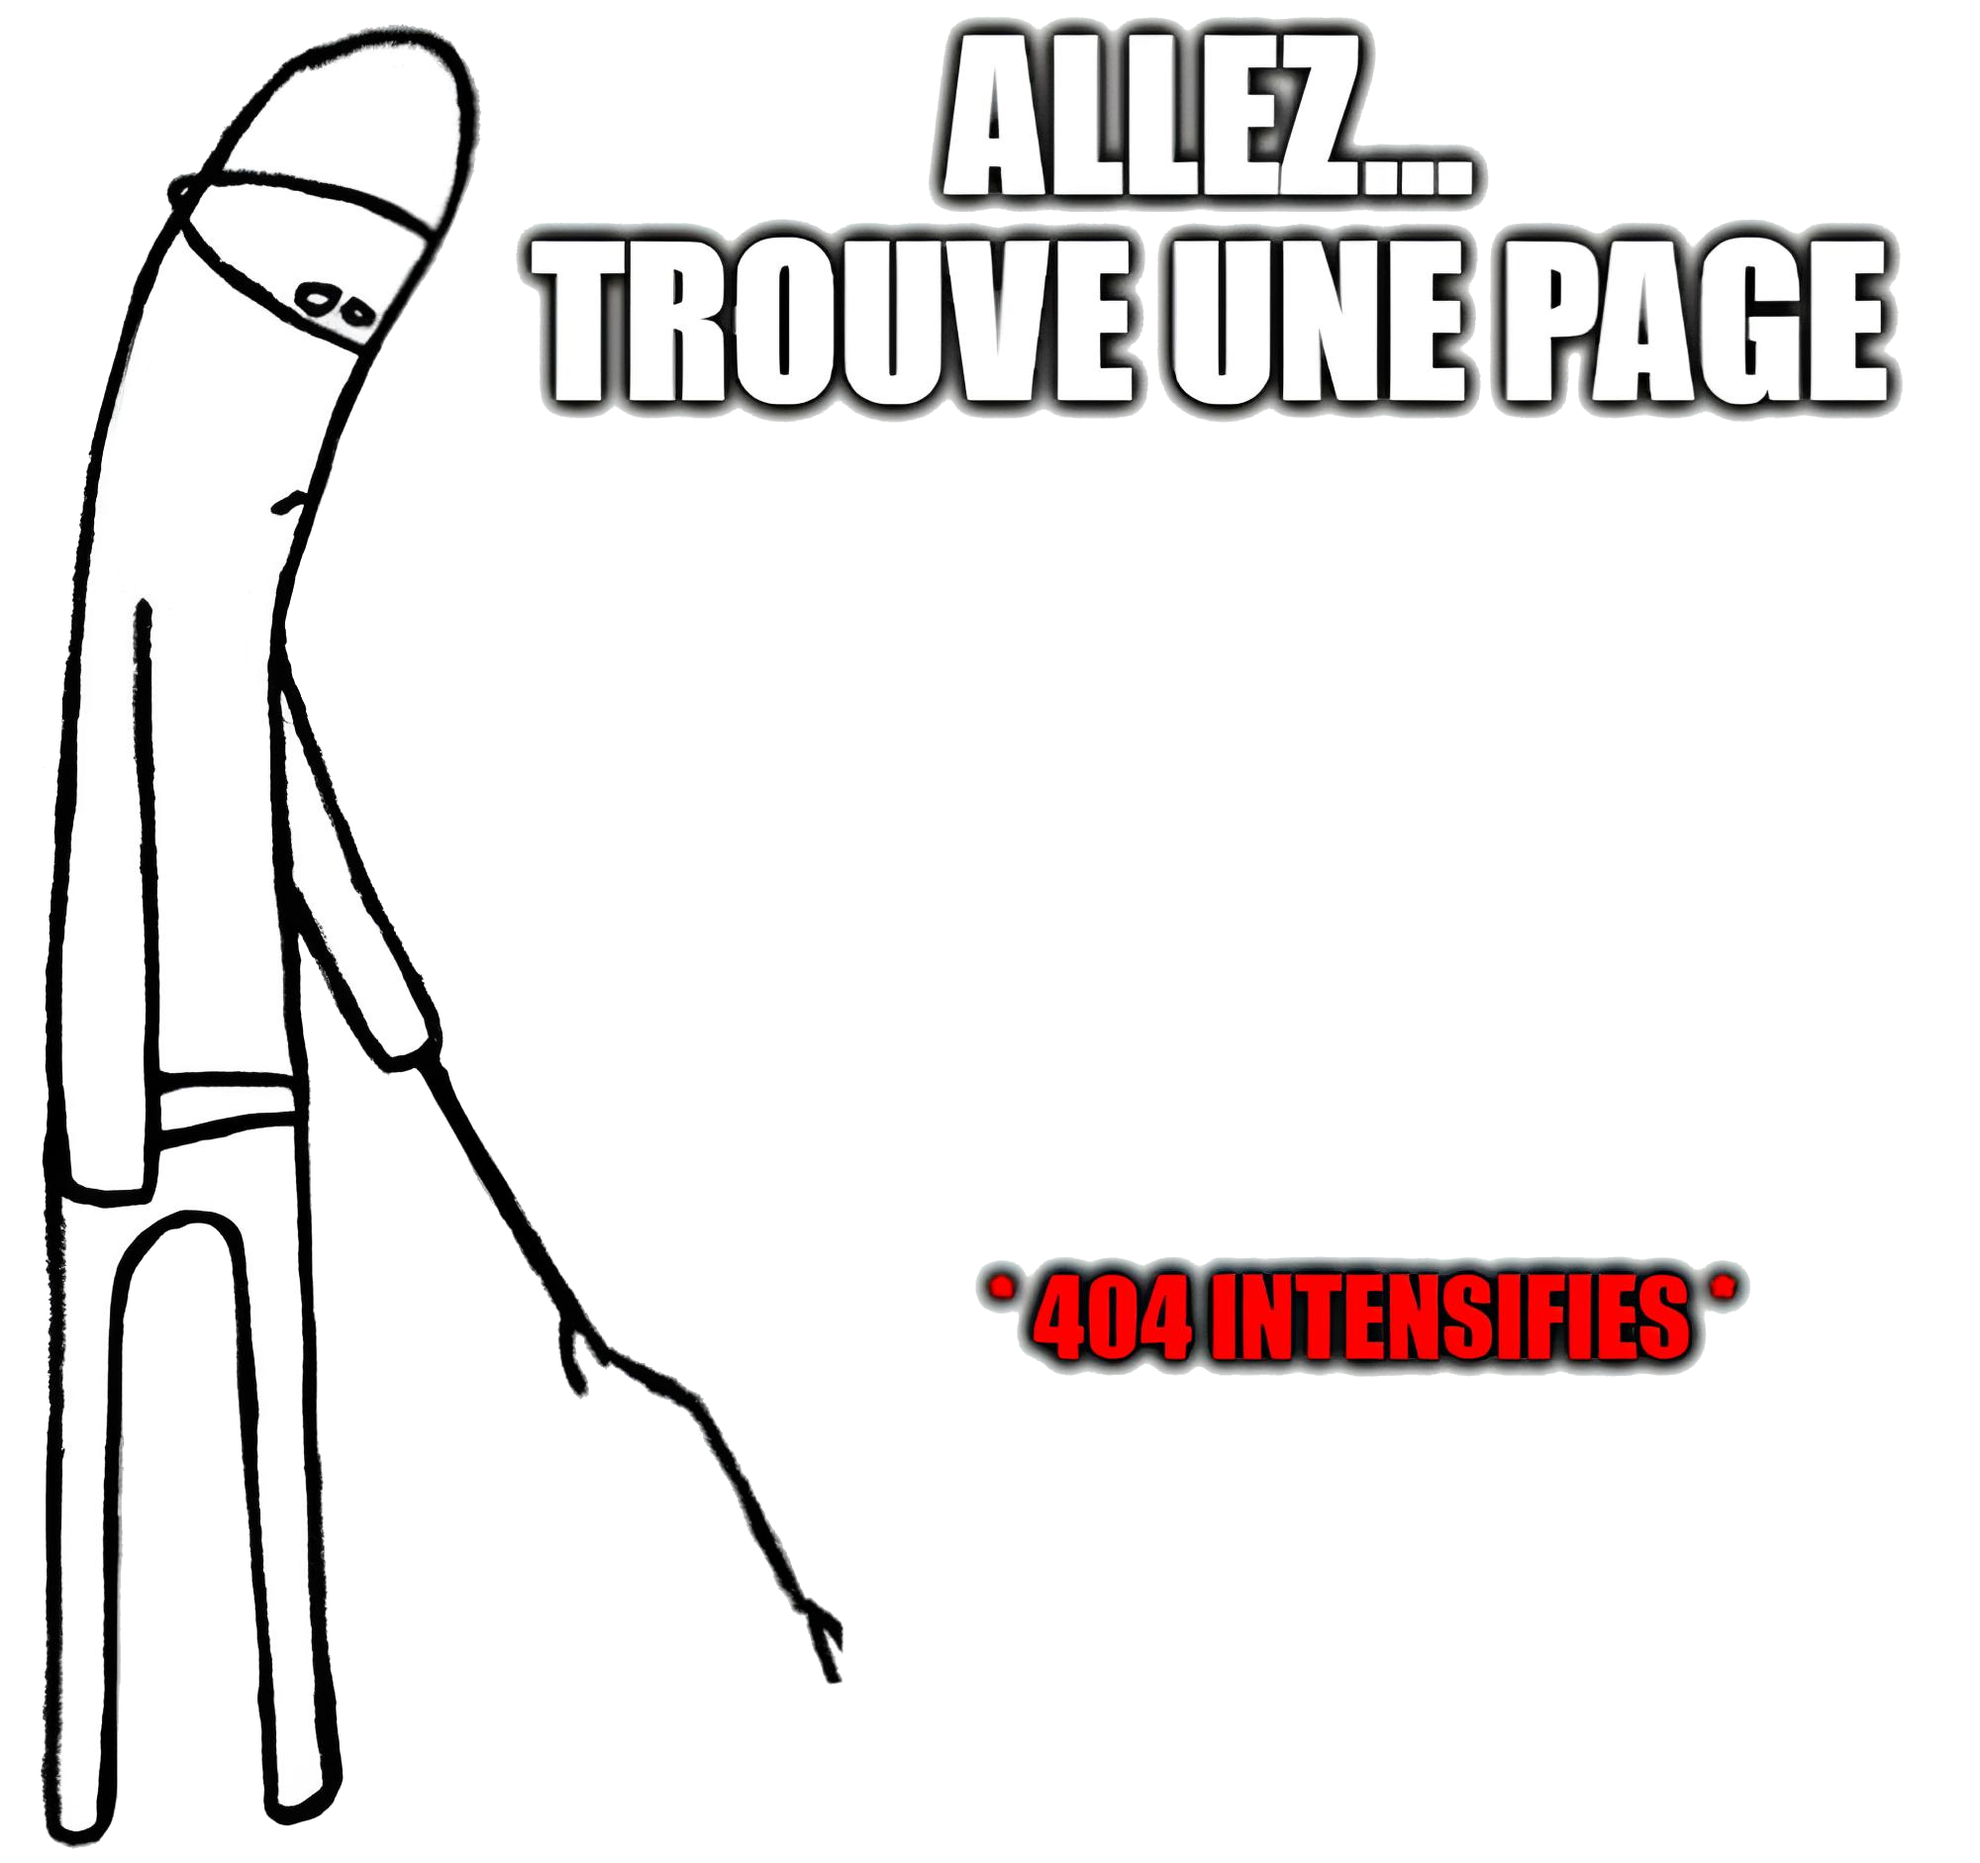
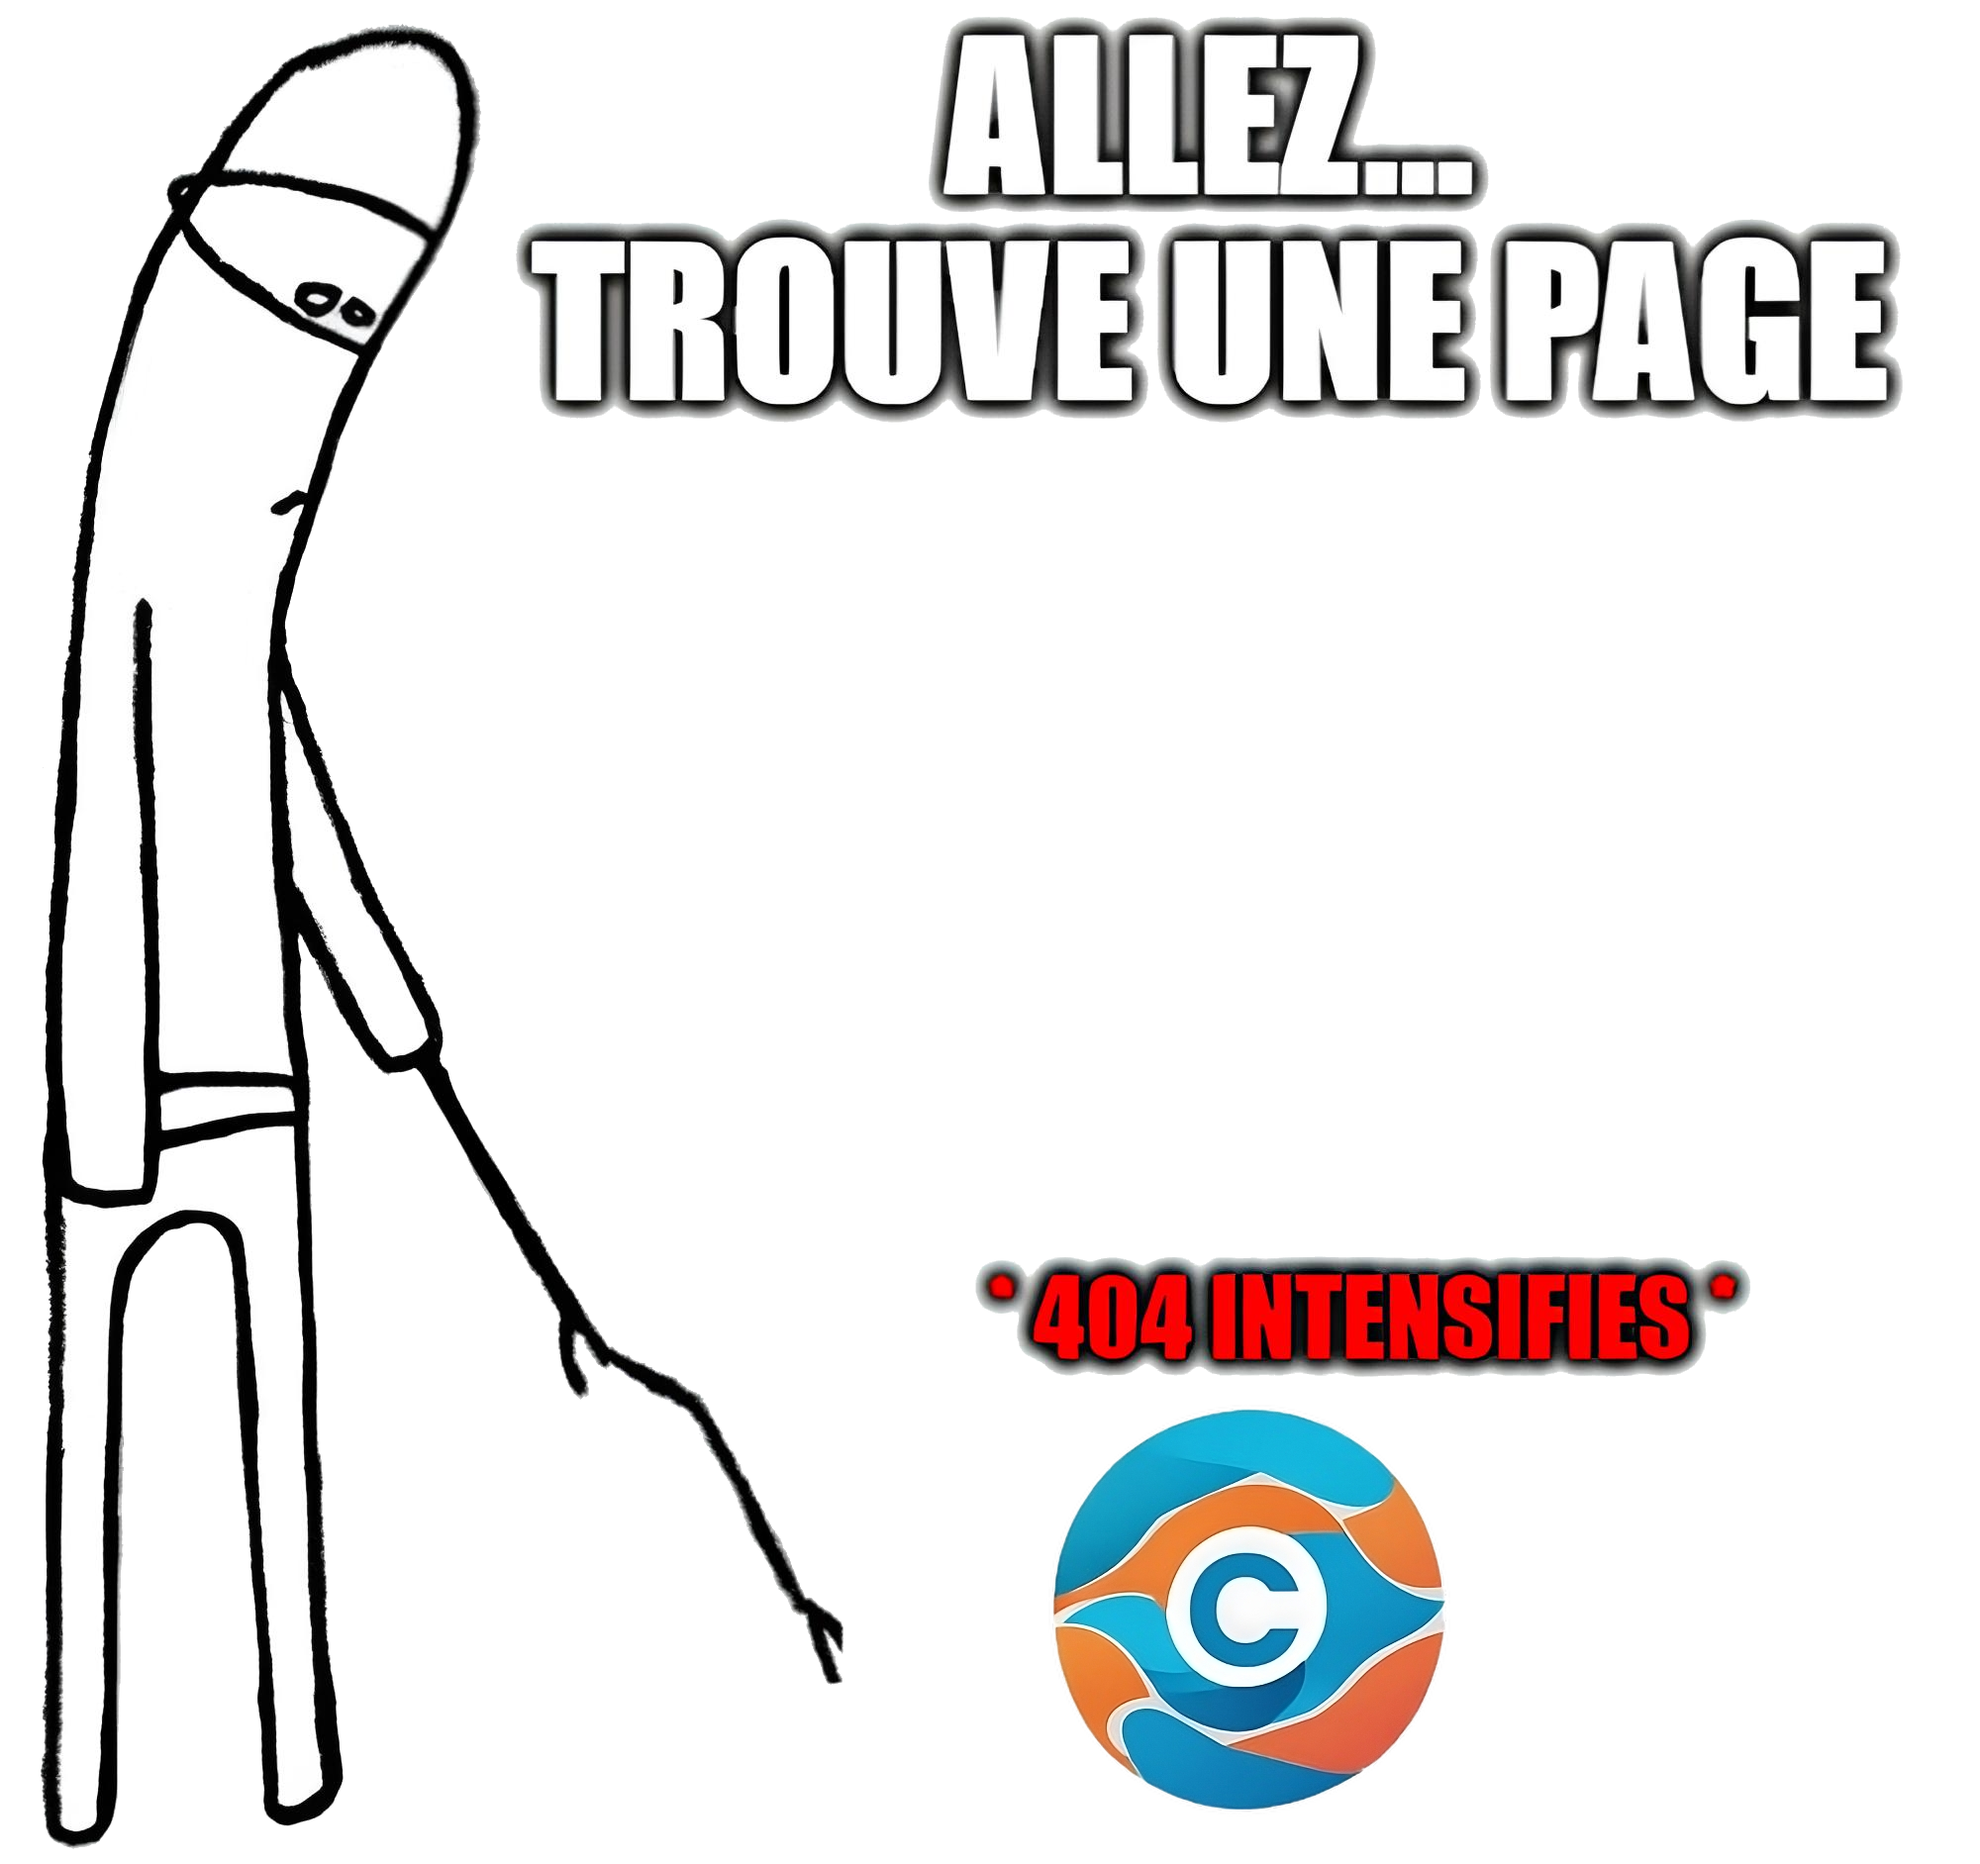
fix 404

Changed region(s): [[0.527, 0.7396, 0.744, 0.9862], [0.031, 0.9862, 0.062, 1.0]]

diff --git a/src/Components/Notfound/Notfound.css b/src/Components/Notfound/Notfound.css
@@ -4,11 +4,18 @@
   align-items: center;
 }
 .Logo-Notfound img {
-  width: 80%;
-  height: 855px;
-  margin: 10%;
-  margin-top: 7%;
+  width: 70%;
+  height: 920px;
+  margin-left: 20%;
+  margin-right: 10%;
 }
+
+@media (max-height: 906px) {
+  .Logo-Notfound img {
+    height: 900px;
+  }
+}
+
 
 @media (max-width: 440px) {
   .Logo-Notfound img {
